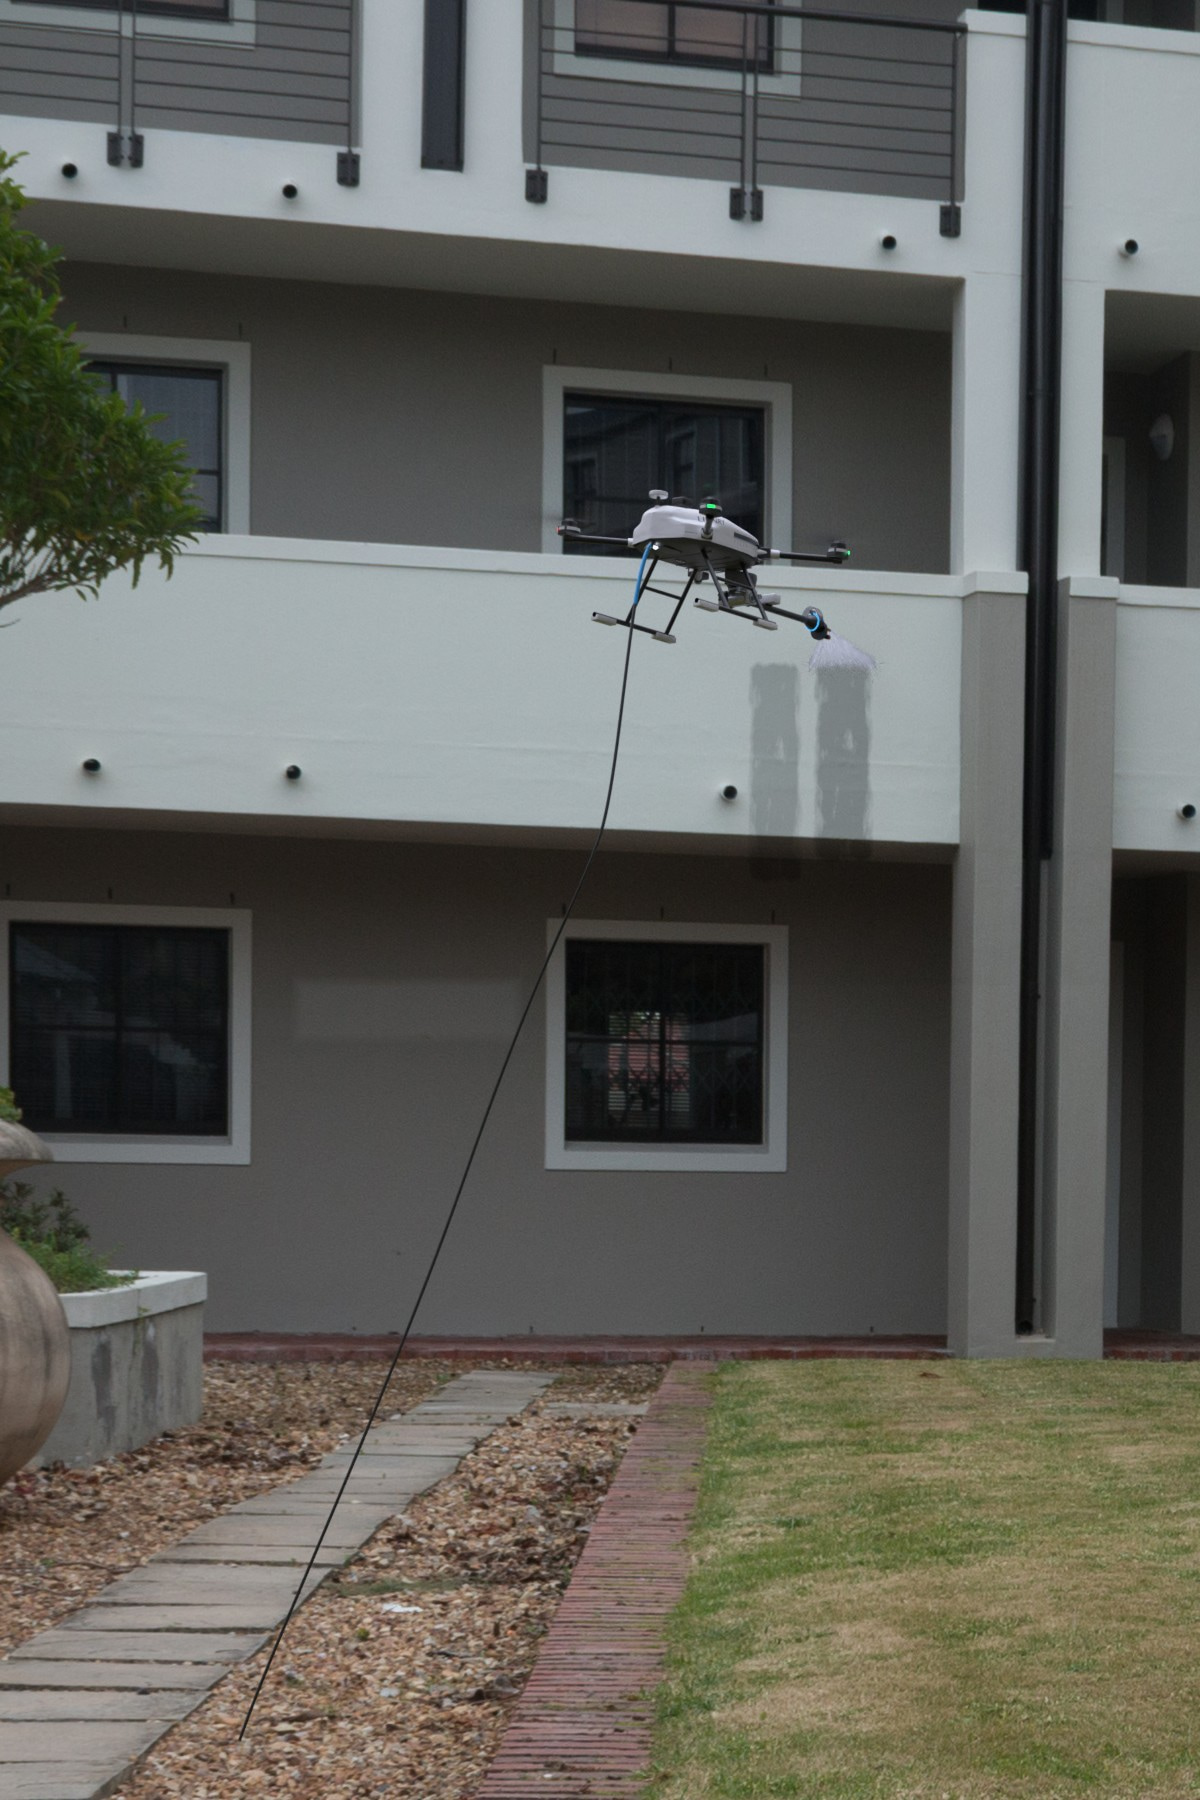
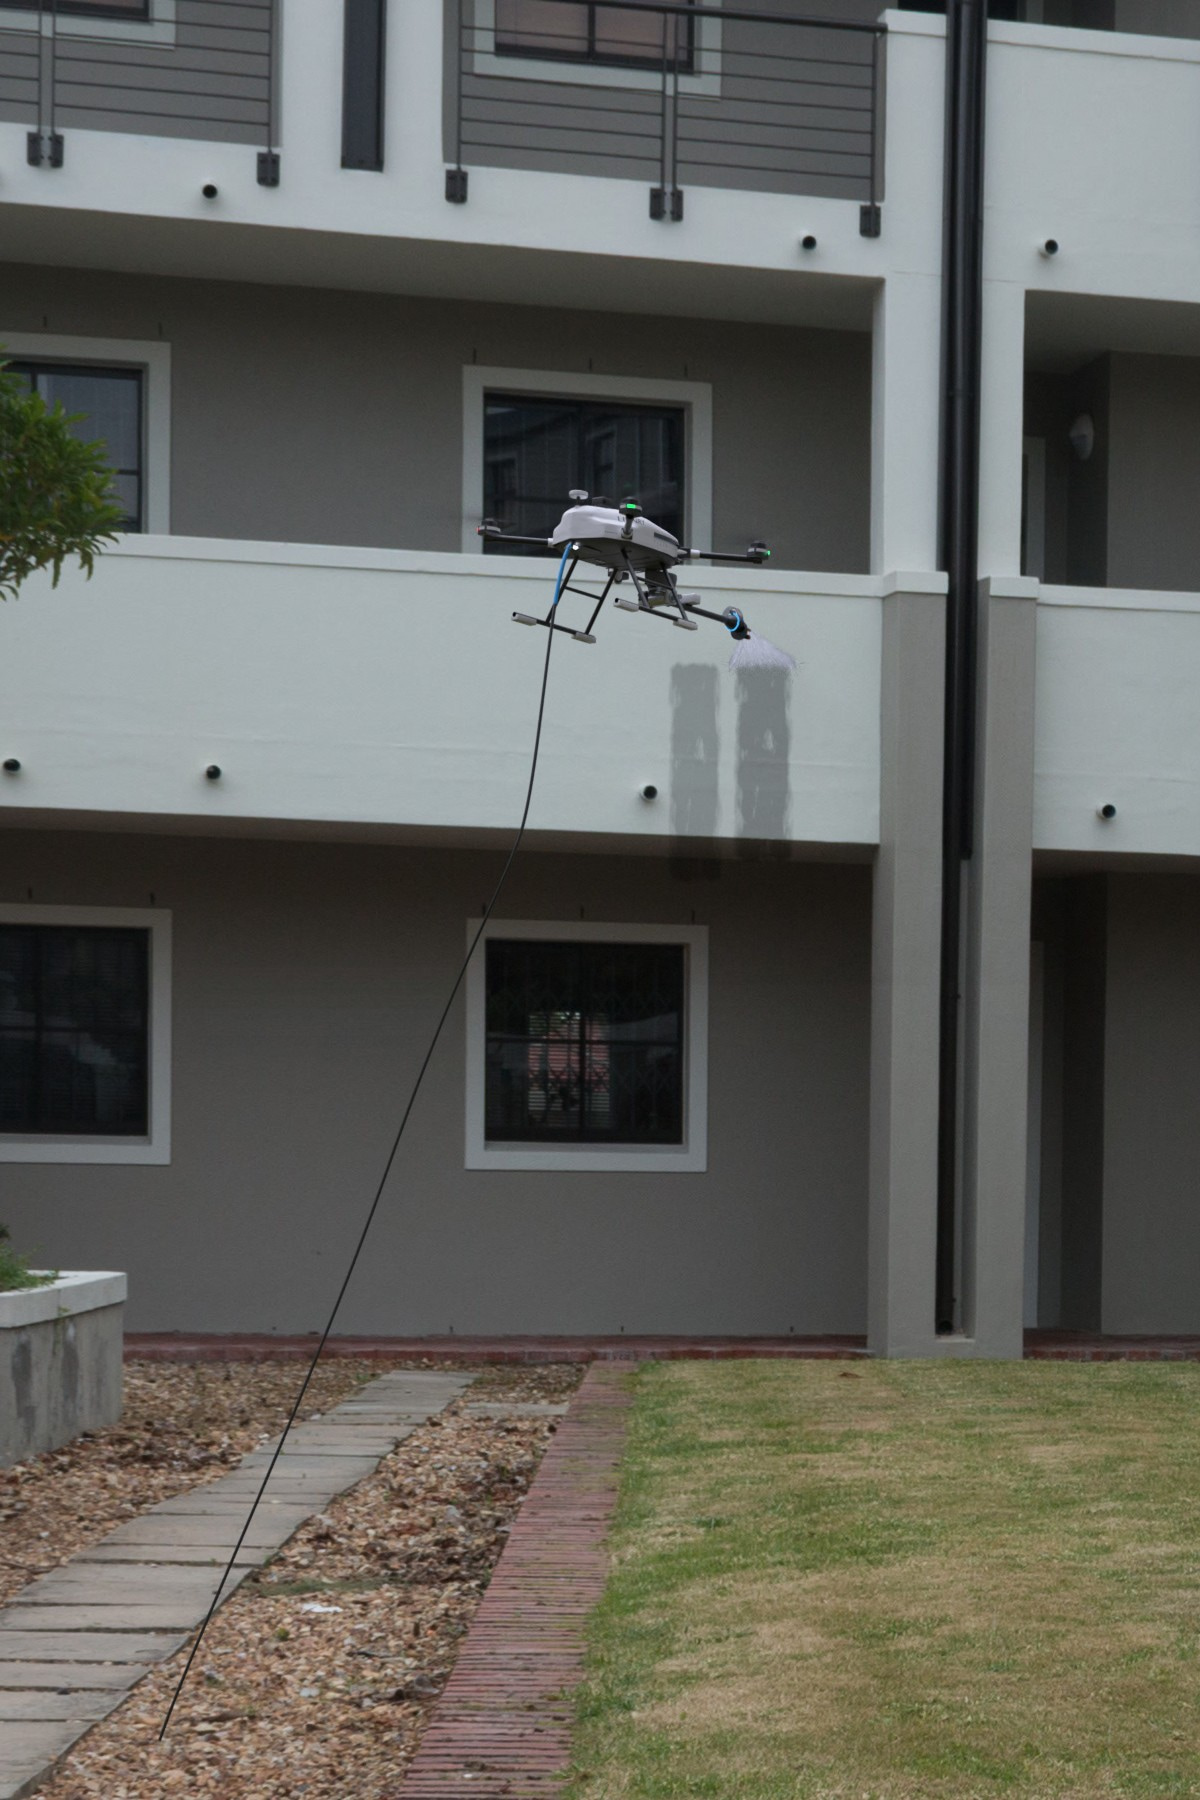
Stills: the tether shots without the hairpin, the apartments shot re-framed
The supply hose fed from a roof parapet now rises from the drone toward
its feed in a shallow bow (h1lib.tether); before, it always left the
swivel pointing down, as for a hose trailing to the ground, and doubled
back up in a hairpin under the drone. s2-tether and f1-tether are
rendered again with it. The apartments shot is framed 80 px further right
so the home card's resting slice holds the drone and its spray, and its
building-name sign is now retouched out of the photograph itself before
the render goes over it, so no lighter patch shows on the wall.

Claude-Session: https://claude.ai/code/session_014cPnYtJdmNi3G1jESrTKrF

diff --git a/scripts/media/stills/h1lib.py b/scripts/media/stills/h1lib.py
@@ -536,9 +536,17 @@ def tether(root, end, sag=0.6, radius=0.007, name="tether"):
     cu.bevel_resolution = 6
     cu.resolution_u = 64
     sp = cu.splines.new("BEZIER")
-    mid1 = start + stub * 0.35 + Vector((0, 0, -sag))
-    mid2 = start + d * 0.45 + Vector((0, 0, -sag * 0.35))
-    pts = [(start, stub * 0.15), (mid1, (d.normalized() * 0.3 + Vector((0, 0, 0.0)))), (mid2, d * 0.18), (end, d.normalized() * 0.5)]
+    if d.z > 0.5 * d.length:
+        # fed from above (a roof parapet): the hose rises from the swivel toward the feed in a shallow bow
+        # under its own weight, never dipping below the drone first
+        side = Vector((d.x, d.y, 0))
+        side = side.normalized() if side.length > 1e-6 else Vector((1, 0, 0))
+        mid = start + d * 0.5 + side * (sag * 0.35) + Vector((0, 0, -sag * 0.2))
+        pts = [(start, d * 0.12), (mid, d * 0.22), (end, d * 0.12)]
+    else:
+        mid1 = start + stub * 0.35 + Vector((0, 0, -sag))
+        mid2 = start + d * 0.45 + Vector((0, 0, -sag * 0.35))
+        pts = [(start, stub * 0.15), (mid1, (d.normalized() * 0.3 + Vector((0, 0, 0.0)))), (mid2, d * 0.18), (end, d.normalized() * 0.5)]
     sp.bezier_points.add(len(pts) - 1)
     for bp, (co, hd) in zip(sp.bezier_points, pts):
         bp.co = co

diff --git a/docs/MEDIA.md b/docs/MEDIA.md
@@ -50,7 +50,7 @@ Every still is rendered with Cycles on the CPU (64 to 128 samples a pixel, adapt
 
 Sources: Poly Haven backplates and HDRIs (polyhaven.com, CC0): `lythwood_terrace` (backplates DSC08801, DSC08806, DSC08816, DSC08820; HDRI), `residential_garden` (backplates IMG_0600, IMG_0613; HDRI), `rooftop_day` (backplates IMG_6228, IMG_6240, IMG_6243, IMG_6246; HDRI), and the HDRIs `docklands_02`, `dry_field`, `balcony`, `bloem_olive_house` and (for the laptop still, as in the hero film) `sunset_jhbcentral`; Poly Haven textures `grass_ground`, `brick_wall_09` and `grey_roof_tiles_02`. The solar cells are drawn in code.
 
-To render them again: the scene scripts are in `scripts/media/stills/`, each reading its settings from the environment; `queue.txt` holds every still's exact settings under its asset id and `queue.sh` renders them in turn into `final/`. Put the owner's .blend next to `h1lib.py` (or set `DRONE` to its path). For the dock, run the owner's own script from that file with its `SHOW_DOCK` and `SAVE_BLEND` options on, which writes `H1_with_dock.blend`, and put that beside the scripts (or set `DOCK_BLEND`); neither file enters this repository. Use the same Python 3.11 virtual environment as the hero film (`pip install bpy==5.0.1 numpy`, as `venv/`, or point `PY` at its python), and fetch the photographs, HDRIs and textures with `fetch_assets.sh`. Finishing: `ho1-homes-hero` and `p3-house` are recomposited with `recomp.py` (`HI=0.82 SAT=1.05`), and `p3-house` is the 1500 x 2250 crop at x 120 of its composite, scaled to 1200 x 1800; the signs noted in the table were toned out with `unsign.py` (with `alpha_png.py`'s render alpha guarding the dock's mast) the extinguisher in `y1-story-before` patched with `patchgrad.py` (a copy of the wall above, scaled row by row to the wall's own shading), and a stray reflected rotor on the glass in `s4-scan` with `patchcopy.py`. Rendered files stay out of the repository (the folder's `.gitignore`).
+To render them again: the scene scripts are in `scripts/media/stills/`, each reading its settings from the environment; `queue.txt` holds every still's exact settings under its asset id and `queue.sh` renders them in turn into `final/`. Put the owner's .blend next to `h1lib.py` (or set `DRONE` to its path). For the dock, run the owner's own script from that file with its `SHOW_DOCK` and `SAVE_BLEND` options on, which writes `H1_with_dock.blend`, and put that beside the scripts (or set `DOCK_BLEND`); neither file enters this repository. Use the same Python 3.11 virtual environment as the hero film (`pip install bpy==5.0.1 numpy`, as `venv/`, or point `PY` at its python), and fetch the photographs, HDRIs and textures with `fetch_assets.sh`. Finishing: `ho1-homes-hero` and `p3-house` are recomposited with `recomp.py` (`HI=0.82 SAT=1.05`); `p2-apartments` is recomposited with `recomp.py` over its photograph with the building-name sign patched out first (`patchgrad.py` on `rg_IMG_0600.jpg`, rectangle 1728,1412 to 1988,1508 from 75 px below, scaled to the wall at x 1706 to 1726); and `p3-house` is the 1500 x 2250 crop at x 120 of its composite, scaled to 1200 x 1800; the signs noted in the table were toned out with `unsign.py` (with `alpha_png.py`'s render alpha guarding the dock's mast) the extinguisher in `y1-story-before` patched with `patchgrad.py` (a copy of the wall above, scaled row by row to the wall's own shading), and a stray reflected rotor on the glass in `s4-scan` with `patchcopy.py`. Rendered files stay out of the repository (the folder's `.gitignore`).
 
 ## House grade (17 October 2026)
 
